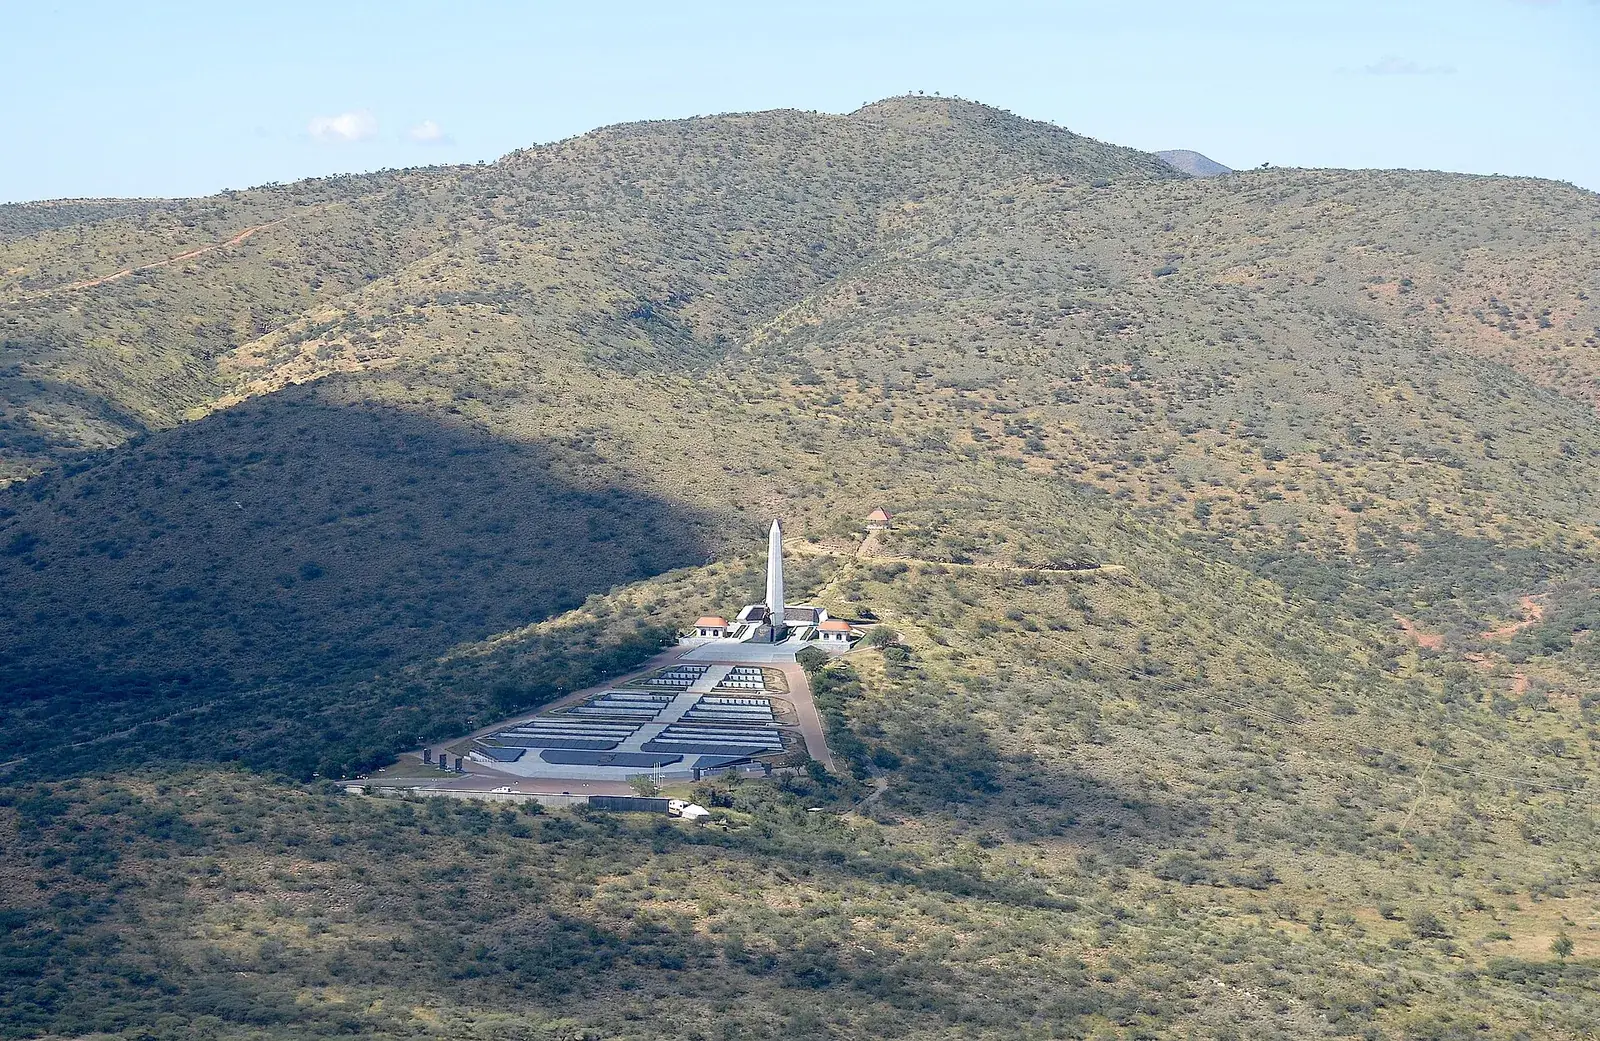
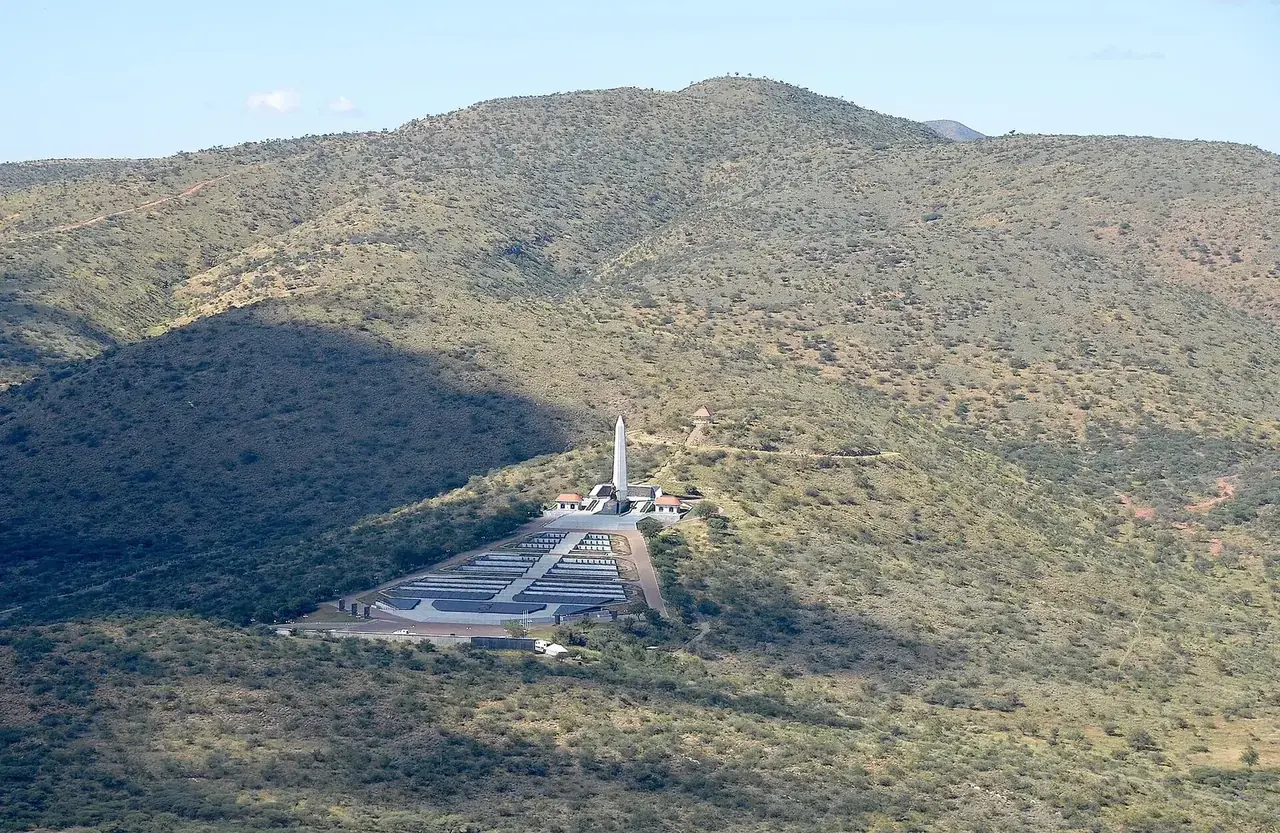
fix(seo,local): full-audit round - WhatsApp channel, LocalBusiness+geo schema, NewsArticle on media releases, orphan links, map preconnects, lighter hero image

Changed region(s): [[0.5, 0.593, 0.5312, 0.6242], [0.4375, 0.6555, 0.4688, 0.6867]]

diff --git a/src/app/contact/page.tsx b/src/app/contact/page.tsx
@@ -1,4 +1,5 @@
 import type { Metadata } from "next";
+import Link from "next/link";
 import { ContactForm } from "@/components/ContactForm";
 import { PageHero } from "@/components/PageHero";
 import { Reveal } from "@/components/Reveal";
@@ -23,17 +24,29 @@ export default function ContactPage() {
 
   return (
     <>
+      {/* Warm the Google Maps handshake before the embed iframe is requested. */}
+      <link href="https://maps.google.com" rel="preconnect" />
       <PageHero body={contact.body} breadcrumbLabel="Contact" eyebrow={contact.eyebrow} media={contact.media} title={contact.title} />
       <section className="section contact-section">
         <div className="site-container contact-section__grid">
           <div className="contact-section__details">
             <SectionHeading
-              body="Call, email, or visit the Windhoek satellite office. Secure delivery is used when it is configured, with your email application available as a fallback."
+              body="Call, message on WhatsApp, email, or visit the Windhoek satellite office. Secure delivery is used when it is configured, with your email application available as a fallback."
               eyebrow="Get in touch"
               title="The direct route to Mendozer."
             />
             <Reveal delay={140}>
               <a className="contact-channel contact-channel--phone" href={siteConfig.phone.href}>{siteConfig.phone.display}</a>
+            </Reveal>
+            <Reveal delay={155}>
+              <a
+                className="contact-channel contact-channel--whatsapp"
+                href={siteConfig.phone.whatsapp}
+                rel="noopener noreferrer"
+                target="_blank"
+              >
+                WhatsApp: {siteConfig.phone.whatsappDisplay}
+              </a>
             </Reveal>
             <Reveal delay={170}>
               <a className="contact-channel contact-channel--email" href={`mailto:${siteConfig.email}`}>{siteConfig.email}</a>
@@ -96,6 +109,9 @@ export default function ContactPage() {
                 </p>
                 <p>
                   <a className="text-link" href={siteConfig.maps.listingUrl} rel="noopener noreferrer" target="_blank">View the Google listing</a>
+                </p>
+                <p>
+                  <Link className="text-link" href="/blog/mendozer-windhoek-satellite-office">Read the office announcement</Link>
                 </p>
               </div>
             </Reveal>

diff --git a/src/app/page.tsx b/src/app/page.tsx
@@ -9,6 +9,7 @@ import { MediaFrame } from "@/components/MediaFrame";
 import { Reveal } from "@/components/Reveal";
 import { SectionHeading } from "@/components/SectionHeading";
 import { siteContent } from "@/content/site-content";
+import { siteConfig } from "@/brand/site-config";
 
 const HeroFollowSection = dynamic(
   () => import("@/components/HeroFollowSection").then((module) => module.HeroFollowSection),
@@ -36,10 +37,30 @@ export default function HomePage() {
       acceptedAnswer: { "@type": "Answer", text: item.answer },
     })),
   };
+  /** LocalBusiness subtype carrying the NAP and geo signals the Organization object does not. */
+  const localBusinessSchema = {
+    "@context": "https://schema.org",
+    "@type": "GeneralContractor",
+    name: siteConfig.name,
+    url: siteConfig.url,
+    telephone: siteConfig.phone.display,
+    email: siteConfig.email,
+    foundingDate: "2009",
+    address: {
+      "@type": "PostalAddress",
+      streetAddress: `Office 2, Continental Building, ${siteConfig.office.street}`,
+      addressLocality: siteConfig.office.locality,
+      addressCountry: "NA",
+    },
+    geo: { "@type": "GeoCoordinates", latitude: -22.5659, longitude: 17.0822 },
+    areaServed: { "@type": "Country", name: "Namibia" },
+    sameAs: [siteConfig.phone.whatsapp, siteConfig.social.instagram, siteConfig.social.facebook],
+  };
 
   return (
     <>
       <script dangerouslySetInnerHTML={{ __html: JSON.stringify(faqSchema) }} type="application/ld+json" />
+      <script dangerouslySetInnerHTML={{ __html: JSON.stringify(localBusinessSchema) }} type="application/ld+json" />
       <HomeHero />
       <HeroFollowSection />
 

diff --git a/src/app/globals.css b/src/app/globals.css
@@ -267,6 +267,7 @@ h3 { font-size: clamp(1.45rem, 2.5vw, 2.4rem); }
 .initiative-card__body > p:last-child { margin-top: var(--space-4); color: var(--color-text-body); font-size: 0.9rem; line-height: 1.7; }
 .community-gallery-section { background: var(--color-bg-dark-primary); }
 .community-gallery { display: grid; grid-template-columns: repeat(3, minmax(0, 1fr)); gap: var(--space-4); }
+.community-gallery__related { margin-top: var(--space-5); color: var(--color-text-light-body, inherit); font-size: 0.92rem; }
 .community-gallery__item { position: relative; min-height: 19rem; overflow: hidden; }
 .community-gallery__item img { object-fit: cover; }
 
@@ -385,6 +386,21 @@ h3 { font-size: clamp(1.45rem, 2.5vw, 2.4rem); }
 }
 
 .site-footer__phone:hover {
+  color: var(--color-brand-blue);
+}
+
+/* WhatsApp channel sits under the phone line in the brand column. */
+.site-footer__whatsapp {
+  display: block;
+  color: var(--color-text-dark-primary);
+  font-family: var(--font-sans);
+  font-size: clamp(0.95rem, 1.4vw, 1.15rem);
+  font-weight: 500;
+  letter-spacing: -0.01em;
+  transition: color var(--duration-fast) ease;
+}
+
+.site-footer__whatsapp:hover {
   color: var(--color-brand-blue);
 }
 
@@ -2072,6 +2088,12 @@ h3 { font-size: clamp(1.45rem, 2.5vw, 2.4rem); }
 
 .contact-channel--email {
   font-size: clamp(1.1rem, 2vw, 1.7rem);
+}
+
+/* Sits between the phone and email channels, so it takes the email scale. */
+.contact-channel--whatsapp {
+  font-size: clamp(1.1rem, 2vw, 1.7rem);
+  border-bottom-color: var(--color-brand-green, #1faa53);
 }
 
 .contact-legal dd br {

diff --git a/src/components/MediaReleasePage.tsx b/src/components/MediaReleasePage.tsx
@@ -28,6 +28,10 @@ type MediaReleasePageProps = {
   poster?: MediaReleasePoster;
   backHref: string;
   backLabel: string;
+  /** NewsArticle schema inputs: canonical path, ISO publish date, and the OG image. */
+  slug: string;
+  publishedISO: string;
+  ogImage: { url: string; width: number; height: number; alt: string };
 };
 
 export function MediaReleasePage({
@@ -44,9 +48,31 @@ export function MediaReleasePage({
   poster,
   backHref,
   backLabel,
+  slug,
+  publishedISO,
+  ogImage,
 }: MediaReleasePageProps) {
+  const newsArticleSchema = {
+    "@context": "https://schema.org",
+    "@type": "NewsArticle",
+    headline: headline.replace(/\.$/, ""),
+    description: standfirst,
+    datePublished: publishedISO,
+    dateModified: publishedISO,
+    author: { "@type": "Organization", name: siteConfig.name },
+    publisher: {
+      "@type": "Organization",
+      name: siteConfig.name,
+      logo: { "@type": "ImageObject", url: new URL("/assets/favicon/favicon-512.png", siteConfig.url).toString() },
+    },
+    mainEntityOfPage: { "@type": "WebPage", "@id": new URL(slug, siteConfig.url).toString() },
+    image: { "@type": "ImageObject", url: new URL(ogImage.url, siteConfig.url).toString(), width: ogImage.width, height: ogImage.height },
+    isAccessibleForFree: true,
+  };
+
   return (
     <article className="blog-post media-release">
+      <script dangerouslySetInnerHTML={{ __html: JSON.stringify(newsArticleSchema) }} type="application/ld+json" />
       <header className="blog-post__header">
         <div className="site-container">
           <Reveal>

diff --git a/src/app/blog/otjiwarongo-sports-bonanza-2026-reconciliation-and-prize-payments/page.tsx b/src/app/blog/otjiwarongo-sports-bonanza-2026-reconciliation-and-prize-payments/page.tsx
@@ -39,10 +39,13 @@ export default function ReconciliationAndPrizePaymentsPage() {
       dateLabel="24 August 2026"
       eyebrow="Media release"
       headline="Reconciliation and prize payment requirements for the Otjiwarongo Sports Bonanza."
+      ogImage={{ url: OG_IMAGE, width: 1200, height: 630, alt: "Otjiwarongo Sports Bonanza 2026 reconciliation and prize payment notice" }}
       pdfHref={PDF}
       pdfLabel="Reconciliation and prize payment requirements"
       pdfNote="The original release is available as a PDF download. PDF, 648 KB."
+      publishedISO="2026-08-24T00:00:00.000Z"
       releaseLabel="Mendozer Investments CC"
+      slug={SLUG}
       standfirst="Mendozer Investments CC has written to the Otjiwarongo Sports Bonanza event organisers to confirm the reconciliation requirements for outstanding balances and the documentation each team must submit before prize monies are paid directly into its bank account."
       body={
         <>

diff --git a/src/app/blog/otjiwarongo-sports-bonanza-2026-king-tee-dee-clarification/page.tsx b/src/app/blog/otjiwarongo-sports-bonanza-2026-king-tee-dee-clarification/page.tsx
@@ -39,10 +39,13 @@ export default function KingTeeDeeClarificationPage() {
       dateLabel="25 August 2026"
       eyebrow="For immediate release"
       headline="Clarification on King Tee Dee's involvement in the Otjiwarongo Sports Bonanza."
+      ogImage={{ url: OG_IMAGE, width: 1200, height: 630, alt: "Clarification notice on King Tee Dee's involvement in the Otjiwarongo Sports Bonanza 2026" }}
       pdfHref={PDF}
       pdfLabel="Clarification on King Tee Dee's involvement"
       pdfNote="The original release is available as a PDF download. PDF, 624 KB."
+      publishedISO="2026-08-25T00:00:00.000Z"
       releaseLabel="Otjiwarongo, Namibia"
+      slug={SLUG}
       standfirst="Mendozer Investments CC confirms that Namibian artist King Tee Dee performed at the Otjiwarongo Sports Bonanza 2026 as the headline act for the music show, and had no involvement in the event's financial administration."
       body={
         <>

diff --git a/src/components/SiteFooter.tsx b/src/components/SiteFooter.tsx
@@ -33,6 +33,14 @@ export function SiteFooter() {
         <div className="site-footer__brand-col">
           <a className="site-footer__email" href={`mailto:${siteConfig.email}`}>{siteConfig.email}</a>
           <a className="site-footer__phone" href={siteConfig.phone.href}>{siteConfig.phone.display}</a>
+          <a
+            className="site-footer__whatsapp"
+            href={siteConfig.phone.whatsapp}
+            rel="noopener noreferrer"
+            target="_blank"
+          >
+            WhatsApp: {siteConfig.phone.whatsappDisplay}
+          </a>
           <p className="site-footer__office">
             {siteConfig.office.suite}, {siteConfig.office.building}, {siteConfig.office.street}, {siteConfig.office.locality}
           </p>

diff --git a/src/app/community/page.tsx b/src/app/community/page.tsx
@@ -63,6 +63,11 @@ export default function CommunityPage() {
               </Reveal>
             ))}
           </div>
+          <Reveal delay={200}>
+            <p className="community-gallery__related">
+              Related reading: <Link className="text-link" href="/blog/namibia-heroes-day-2026">Heroes&apos; Day 2026: Namibia remembers</Link>
+            </p>
+          </Reveal>
         </div>
       </section>
       <section className="section community-report-section">

diff --git a/src/app/blog/mendozer-windhoek-satellite-office/page.tsx b/src/app/blog/mendozer-windhoek-satellite-office/page.tsx
@@ -57,6 +57,8 @@ export default function WindhoekSatelliteOfficePage() {
 
   return (
     <>
+      {/* Warm the Google Maps handshake before the embed iframe is requested. */}
+      <link href="https://maps.google.com" rel="preconnect" />
       <script dangerouslySetInnerHTML={{ __html: JSON.stringify(blogPostingSchema) }} type="application/ld+json" />
 
       <article className="blog-post">

diff --git a/src/brand/site-config.ts b/src/brand/site-config.ts
@@ -12,6 +12,9 @@ export const siteConfig = {
     display: "+264 85 777 7077",
     nationalDisplay: "085 777 7077",
     href: "tel:+264857777077",
+    /** WhatsApp click-to-chat. wa.me requires the international format without a plus sign. */
+    whatsapp: "https://wa.me/264857777077",
+    whatsappDisplay: "085 777 7077",
   },
   postalBox: "P.O. Box 22205, Windhoek, Namibia",
   office: {

diff --git a/src/app/blog/namibia-heroes-day-2026/page.tsx b/src/app/blog/namibia-heroes-day-2026/page.tsx
@@ -36,8 +36,8 @@ export const metadata: Metadata = {
 const gallery = [
   {
     src: `${ASSET}/heroes-acre-aerial.webp`,
-    width: 1600,
-    height: 1041,
+    width: 1280,
+    height: 833,
     alt: "Aerial view of the Heroes' Acre memorial complex in the Auas mountains near Windhoek",
     caption: "Heroes' Acre, viewed from above",
   },

diff --git a/src/app/layout.tsx b/src/app/layout.tsx
@@ -92,6 +92,7 @@ export default function RootLayout({ children }: Readonly<{ children: React.Reac
       addressCountry: "NA",
     },
     sameAs: [
+      siteConfig.phone.whatsapp,
       siteConfig.social.instagram,
       siteConfig.social.facebook,
     ],
